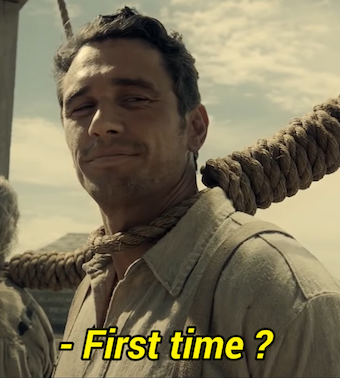
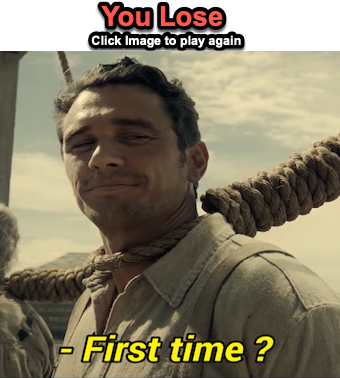
game fully functional and mobile responsive

diff --git a/assets/javascript/game.js b/assets/javascript/game.js
@@ -5,7 +5,7 @@
 var objGame = {
     //function to load wordlist needed
     //list of words to play
-    arrWordList: ["buster", "jeffery", "barton", "delbert", "llewyn", "mattie", "ulysses", "chad", "edwina", "walter", "anton", "marge", "norville", "harry", "rooster", "penny", "donny", "llewelyn", "cowboy"],
+    arrWordList: ["buster", "jeffery", "barton", "delmar", "llewyn", "mattie", "ulysses", "chad", "edwina", "walter", "anton", "marge", "norville", "harry", "rooster", "penny", "donny", "llewelyn", "cowboy"],
     //use a random function to select a word 
     get strWordChoice() {
         if (!this._wordChoice) {
@@ -121,15 +121,23 @@ var objGame = {
         if (win) {
             this.intWon++
             // var eleNotHungMan = document.querySelector("#hangProgression");
-            this.hangProg.setAttribute("src", "assets/images/BusterScruggsCowboyFirstTime.png");
+            this.hangProg.setAttribute("src", "assets/images/BurnAfterReadingChadDance.png");
             // eleNotHungMan.setAttribute("data-image-status","lostGame");
         }
         else {
             this.intLost++
             //document.querySelector("#hangProgression");
-            this.hangProg.setAttribute("src", "assets/images/BusterScruggsCowboyFirstTime.png");
+            this.hangProg.setAttribute("src", "assets/images/BusterScruggsCowboyFirstTime2.png");
             this.strWordChoice;
             this.hangProg.setAttribute("data-image-status", "endGame");
+            let remPlacers = document.getElementById("wordPlacer");
+            remPlacers.innerHTML = '';
+            let newLi = document.createElement("li");
+            let placeholder = document.createTextNode(this.strWordChoice);
+            newLi.appendChild(placeholder);
+            newLi.setAttribute("class", "letterPlacer");
+            newLi.setAttribute("id", "li99");
+            document.getElementById("wordPlacer").appendChild(newLi);
         }
         this.scoreboard();
         document.removeEventListener("keyup", this.keyListener);
@@ -137,7 +145,8 @@ var objGame = {
         this.hangProg.addEventListener("click", this.clickListener);
     },
     scoreboard: function () {
-        document.querySelector("#score").textContent = "Wins: " + this.intWon + "  //  " + "Losses: " + this.intLost;
+        document.querySelector("#won").textContent = "Won: " + this.intWon;
+        document.querySelector("#lost").textContent = "Lost: " + this.intLost;
     },
     resetGame: function () {
         //code to clear out and restart new game.
@@ -154,6 +163,7 @@ var objGame = {
         this.initGame();
     },
     initGame: function () {
+        document.querySelector("#introduction").setAttribute("class","my-hidden")
         this.addKeysToMatch();
         this.setPlaceholders();
         this.keyListener = this.playTheKey.bind(this);
@@ -163,6 +173,10 @@ var objGame = {
     },
     regexChk : RegExp("^[a-z]{1}$"),
     keyListener: null,
-    clickListener: null
+    clickListener: null,
+    introduction : function(){
+        this.clickListener = this.initGame.bind(this);
+        document.querySelector("#btnStart").addEventListener("click", this.clickListener)
+    }
 }
-objGame.initGame();
+objGame.introduction();

diff --git a/index.html b/index.html
@@ -19,31 +19,41 @@
         <!-- setup the layout of the gameboard -->
         <section id="gameboard">
             <div class="buffer-l"></div>
-            <div class="title">Hangman
+            <div id="introduction" class="justify-content-center title bg-play m-2 p-2">
+                <img src="assets/images/coenBrothersFilmIntro.png" id="introImg" alt="">
+                <!-- <p>Play Hangman with the Dude and other iconic characters from the Coen Brothers filmography.</p>
+                <p>Guess the first names, with only a few nicknames.</p>
+                <p>Lower case letter only. No numbers or other symbols.</p>
+                <p>Six wrong guesses to hang - not hard if you know your Coen Brothers films.</p>
+                <p>Press start button and begin typing your guesses.</p> -->
+                <div class="d-flex justify-content-center"> 
+                    <button id="btnStart" class="bg-danger">Start</button>
+                </div> 
             </div>
 
             <div class="rules d-flex mt-4">
-                <div class="w-25 h-10 justify-content-center bg-play">
-                    <p class="text-center mt-2">Played Letters</p>
+                <div class="w-25 h-13 justify-content-center bg-play">
+                    <p class="text-center mt-0">Played Letters</p>
                 </div>
                 <div class="w-50 h-10"></div>
-                <div class="w-25 h-10 justify-content-center bg-play">
-                    <p class="text-center mt-2">Scoreboard</p>
+                <div class="w-25 h-13 justify-content-center bg-play">
+                    <p class="text-center mt-0">Scoreboard</p>
                 </div>
             </div>
             <div class="playResults d-flex align-items-start bg-play">
-                <div id=playedLetters class="border border-dark w-25 h-25 p-1">
+                <div id=playedLetters class="w-25 h-25 p-1">
                     <p id=letterList></p>
                 </div>
                 <div id="hangImg" class="border border-dark w-50 h-100">
                     <img id=hangProgression src="assets/images/Hangman-0.png" data-image-status="initGame" alt="" data-progvalue="0">
                     <div class="d-flex justify-content-center">
-                        <ul id="wordPlacer" class="align-items-end mt-5"></ul>
+                        <ul id="wordPlacer"></ul>
                     </div>
 
                 </div>
-                <div id="winloss" class="border border-dark w-25 h-25 p-1">
-                    <p id="score"></p>
+                <div id="winloss" class="w-25 h-25 p-1">
+                    <p id="won">Won:</p>
+                    <p id="lost">Lost:</p>
                 </div>
             </div>
             <div class="wordPlay"></div>

diff --git a/assets/css/gameboard.css b/assets/css/gameboard.css
@@ -43,7 +43,7 @@
     flex-direction: row;
     padding: .75rem 1.25rem;
     margin-bottom: -1px;
-    background-color: #fff;
+    background-color: transparent;
     border-style: none;
 }
 
@@ -57,7 +57,25 @@
     list-style: none;
 }
 
+#introImg{
+    height: 98%;
+    width: 98%;
+}
+
 .bg-play{
     background-color: antiquewhite;
     opacity: .97;
+}
+
+.my-hidden{
+    display: none;
+}
+
+#btnStart{
+    margin-right: 5%;
+}
+
+#hangProgression{
+    width: 75%;
+    height: 75%;
 }
